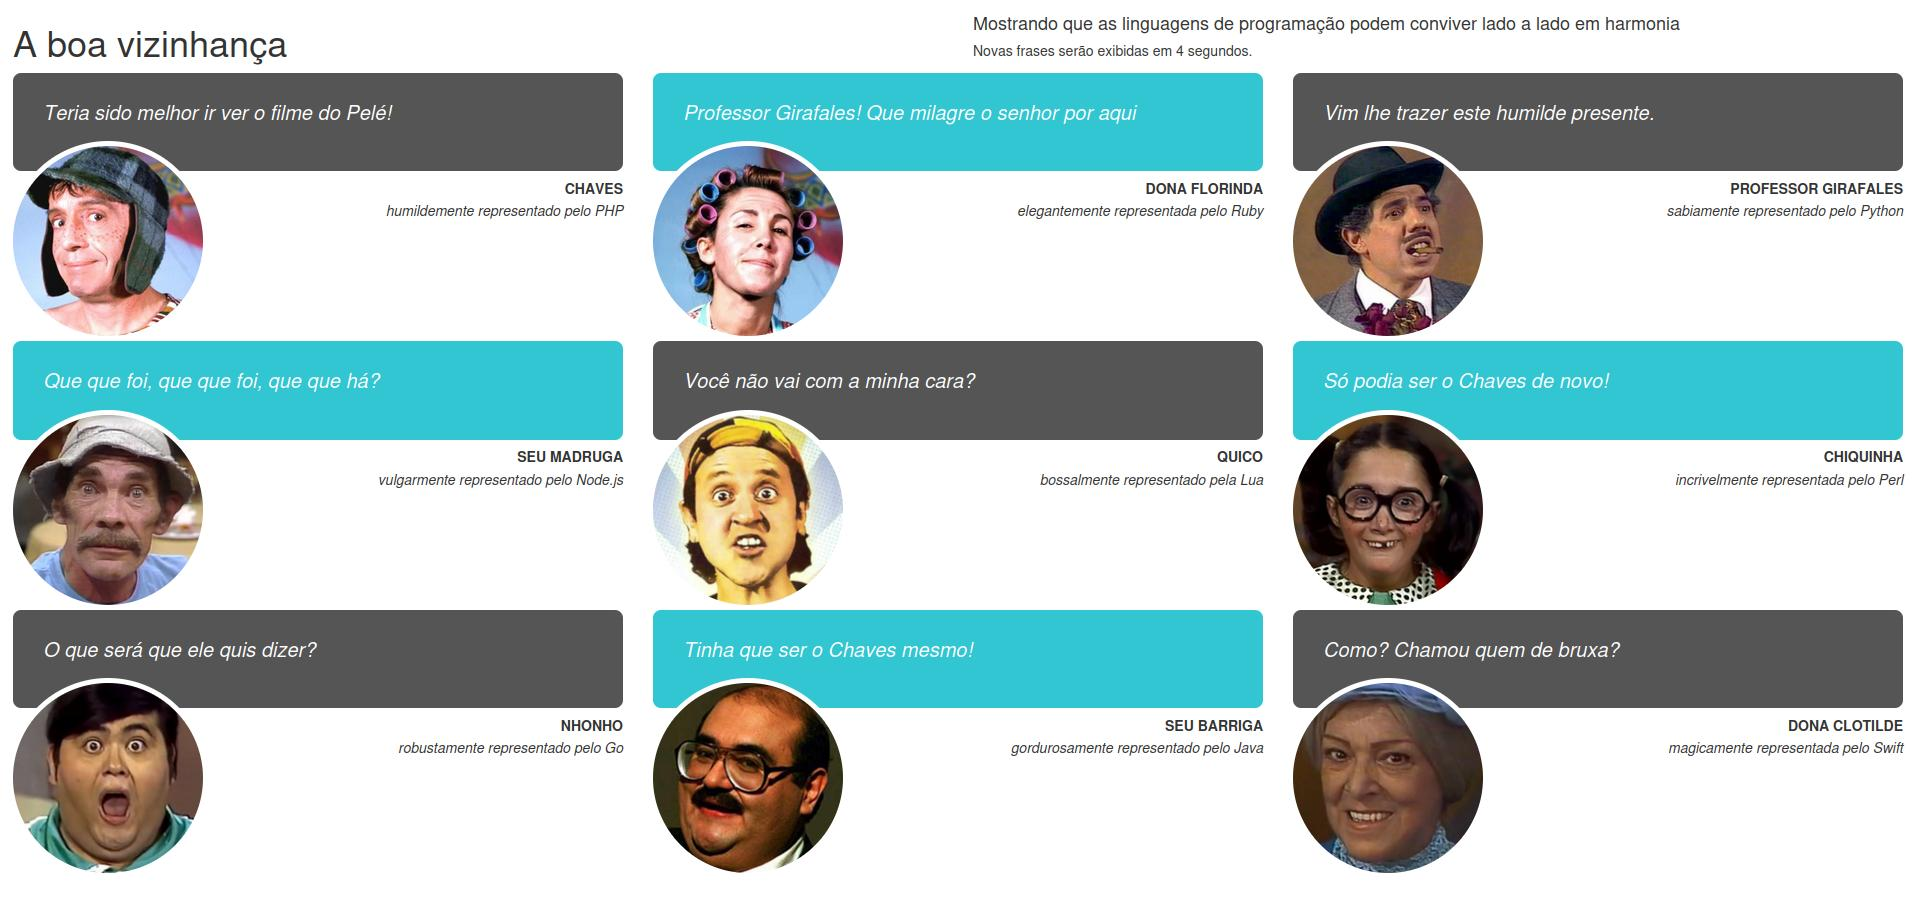
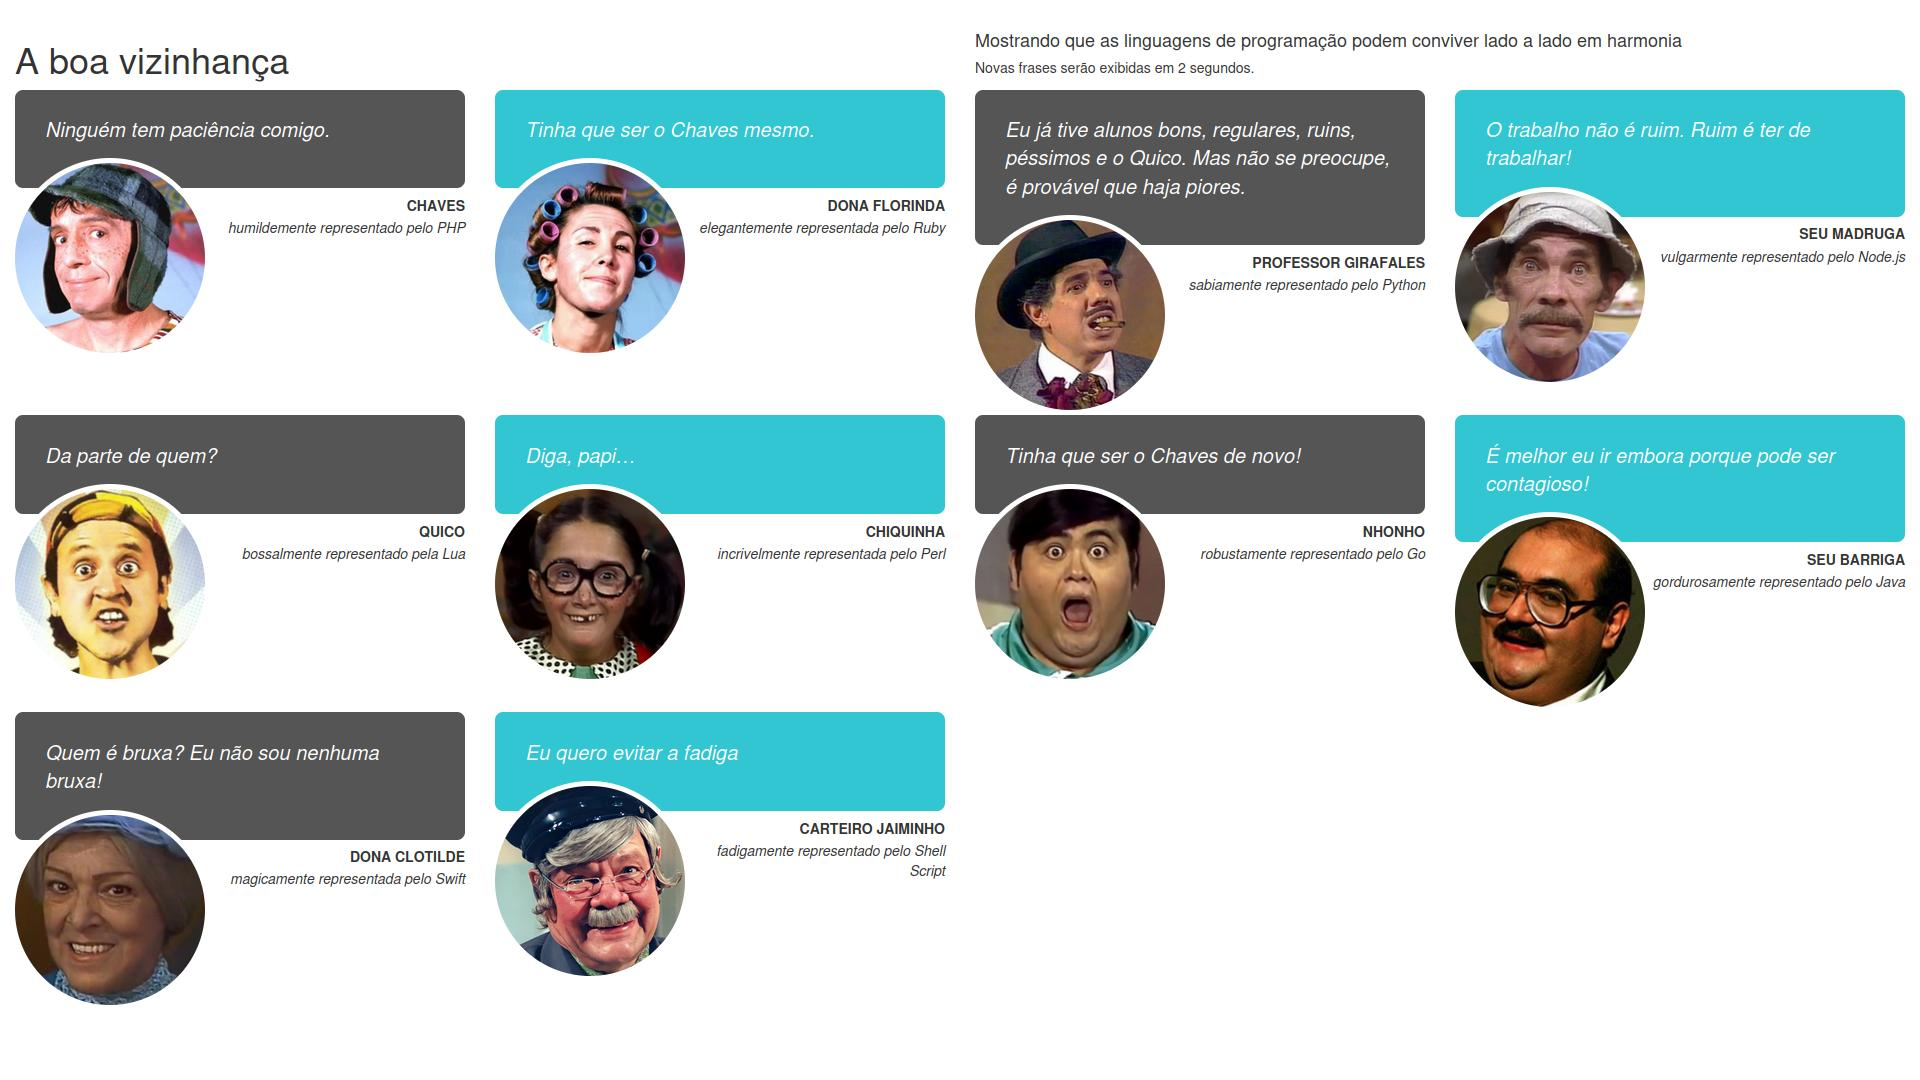
Change to the Front-End with the addition of the character Carteiro Jaiminho

diff --git a/frontend/index.html b/frontend/index.html
@@ -149,7 +149,7 @@
       </div>
       
       <div class="row">
-        <div class="col-md-4 margin-btm-150">
+        <div class="col-md-3 margin-btm-150">
           <div class="quote dark">
             <blockquote>
               <p id="person1"></p>
@@ -157,13 +157,14 @@
           </div>
           <div class="quote-footer text-right">
             <div class="quote-author-img">
-              <img src="img/chaves.png" alt>
+              <img src="img/chaves.png" alt="Chaves" class="img-responsive">
             </div>
             <h4>Chaves</h4>
             <p>humildemente representado pelo PHP</p>
           </div>
         </div>
-        <div class="col-md-4 margin-btm-150">
+
+        <div class="col-md-3 margin-btm-150">
           <div class="quote green">
             <blockquote>
               <p id="person2"></p>
@@ -171,14 +172,14 @@
           </div>
           <div class="quote-footer text-right">
             <div class="quote-author-img">
-              <img src="img/dona-florinda.png" alt>
+              <img src="img/dona-florinda.png" alt="Dona Florinda" class="img-responsive">
             </div>
             <h4>Dona Florinda</h4>
             <p>elegantemente representada pelo Ruby</p>
           </div>
         </div>
 
-        <div class="col-md-4 margin-btm-150">
+        <div class="col-md-3 margin-btm-150">
           <div class="quote dark">
             <blockquote>
               <p id="person4"></p>
@@ -186,16 +187,14 @@
           </div>
           <div class="quote-footer text-right">
             <div class="quote-author-img">
-              <img src="img/professor-girafales.png" alt>
+              <img src="img/professor-girafales.png" alt="Professor Girafales" class="img-responsive">
             </div>
             <h4>Professor Girafales</h4>
             <p>sabiamente representado pelo Python</p>
           </div>
         </div>
-      </div>
 
-      <div class="row">
-        <div class="col-md-4 margin-btm-150">
+        <div class="col-md-3 margin-btm-150">
           <div class="quote green">
             <blockquote>
               <p id="person3"></p>
@@ -203,14 +202,16 @@
           </div>
           <div class="quote-footer text-right">
             <div class="quote-author-img">
-              <img src="img/seu-madruga.png" alt>
+              <img src="img/seu-madruga.png" alt="Seu Madruga" class="img-responsive">
             </div>
             <h4>Seu Madruga</h4>
             <p>vulgarmente representado pelo Node.js</p>
           </div>
         </div>
+      </div>
 
-        <div class="col-md-4 margin-btm-150">
+      <div class="row">
+        <div class="col-md-3 margin-btm-150">
           <div class="quote dark" >
             <blockquote>
               <p id="person5"></p>
@@ -218,14 +219,14 @@
           </div>
           <div class="quote-footer text-right">
             <div class="quote-author-img">
-              <img src="img/quico.png" alt>
+              <img src="img/quico.png" alt="Quico" class="img-responsive">
             </div>
             <h4>Quico</h4>
             <p>bossalmente representado pela Lua</p>
           </div>
         </div>
 
-        <div class="col-md-4 margin-btm-150">
+        <div class="col-md-3 margin-btm-150">
           <div class="quote green" >
             <blockquote>
               <p id="person6"></p>
@@ -233,16 +234,14 @@
           </div>
           <div class="quote-footer text-right">
             <div class="quote-author-img">
-              <img src="img/chiquinha.png" alt>
+              <img src="img/chiquinha.png" alt="Chiquinha" class="img-responsive">
             </div>
             <h4>Chiquinha</h4>
             <p>incrivelmente representada pelo Perl</p>
           </div>
         </div>
-      </div>
 
-      <div class="row">
-        <div class="col-md-4 margin-btm-150">
+        <div class="col-md-3 margin-btm-150">
           <div class="quote dark">
             <blockquote>
               <p id="person7"></p>
@@ -250,14 +249,14 @@
           </div>
           <div class="quote-footer text-right">
             <div class="quote-author-img">
-              <img src="img/nhonho.png" alt>
+              <img src="img/nhonho.png" alt="Nhonho" class="img-responsive">
             </div>
             <h4>Nhonho</h4>
             <p>robustamente representado pelo Go</p>
           </div>
         </div>
 
-        <div class="col-md-4 margin-btm-150">
+        <div class="col-md-3 margin-btm-150">
           <div class="quote green">
             <blockquote>
               <p id="person8"></p>
@@ -265,14 +264,16 @@
           </div>
           <div class="quote-footer text-right">
             <div class="quote-author-img">
-              <img src="img/seu-barriga.png" alt>
+              <img src="img/seu-barriga.png" alt="Seu Barriga" class="img-responsive">
             </div>
             <h4>Seu Barriga</h4>
             <p>gordurosamente representado pelo Java</p>
           </div>
         </div>
+      </div>
 
-        <div class="col-md-4 margin-btm-150">
+      <div class="row">
+        <div class="col-md-3 margin-btm-150">
           <div class="quote dark">
             <blockquote>
               <p id="person9"></p>
@@ -280,10 +281,25 @@
           </div>
           <div class="quote-footer text-right">
             <div class="quote-author-img">
-              <img src="img/dona-clotilde.png" alt>
+              <img src="img/dona-clotilde.png" alt="Dona Clotilde" class="img-responsive">
             </div>
             <h4>Dona Clotilde</h4>
             <p>magicamente representada pelo Swift</p>
+          </div>
+        </div>
+
+        <div class="col-md-3 margin-btm-150">
+          <div class="quote green">
+            <blockquote>
+              <p id="person10"></p>
+            </blockquote>
+          </div>
+          <div class="quote-footer text-right">
+            <div class="quote-author-img">
+              <img src="img/jaiminho.png" alt="Carteiro Jaiminho" class="img-responsive">
+            </div>
+            <h4>Carteiro Jaiminho</h4>
+            <p>fadigamente representado pelo Shell Script</p>
           </div>
         </div>
       </div>
@@ -316,6 +332,7 @@
           loadPhrase("http://localhost:8007/", "person7");
           loadPhrase("http://localhost:8008/", "person8");
           loadPhrase("http://localhost:8009/", "person9");
+          loadPhrase("http://localhost:8010/", "person10");
         }
 
         let countdown = 7;
